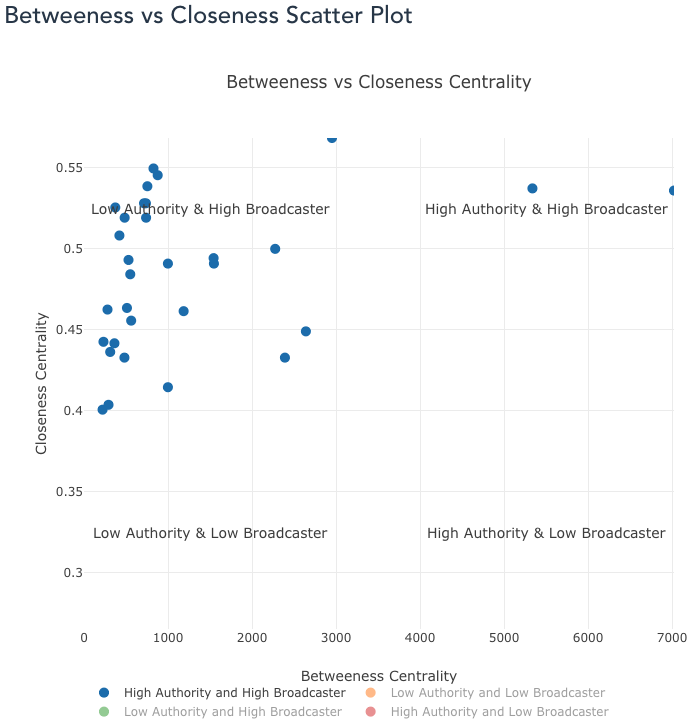
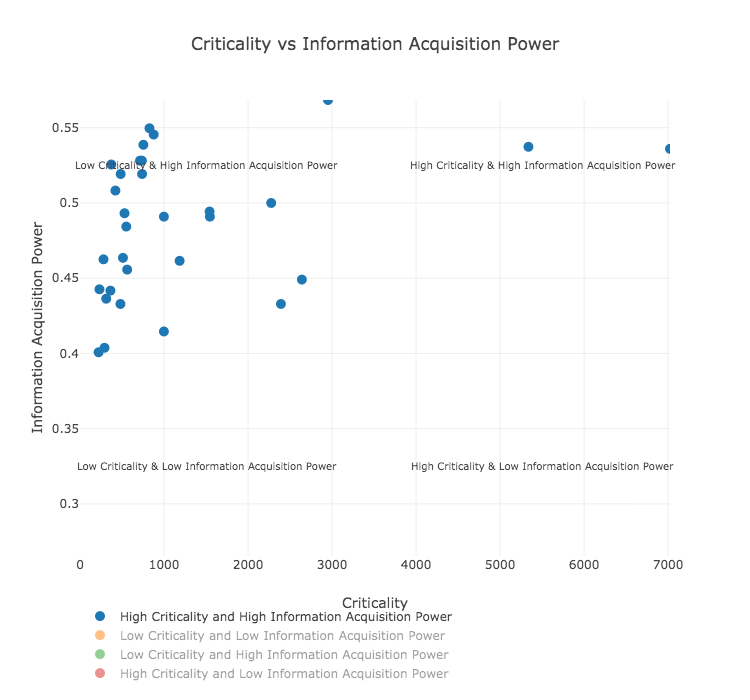
Add the explanation for 'Criticality' and 'Information Acquisition Power'

diff --git a/sample-sigconf.tex b/sample-sigconf.tex
@@ -152,7 +152,7 @@ We examine the distribution based on risk and value of each attributes to better
 Freeman \cite{Freeman78centralityin} developed a set of measures for centrality based on betweenness. Later on, he proposed four core criteria, which developed into degree, closeness, betweenness, and eigenvector centrality  \cite{Freeman79centralityin}. We further leverage the concept of closeness and betweenness centrality to investigate Ecosystem graph.
 
 \textbf{Closeness Centrality}
- It emphasize how close a vertex is to all other vertices in the topology -- the distance of a vertex to all others in the network by focusing on the geodesic measurement from each vertex to all others (Freeman \cite{Freeman79centralityin}). To be more specific, it calculates the shortest path between all nodes and assigns each node a score based on the length of its shortest paths to other nodes. According to Yin et al. \cite{Yin2006}, closeness is an evaluation for ``how long it will take information to spread from a given vertex to others in the network'' (p.1603), which helps find the PII attributes that are best placed to reach others once breached, and thus influence the entire network most efficiently. Also according to Freidkin \cite{Freidkin}, closeness centrality represents the independence in the sense that PII attributes with higher closeness centrality do not need to seek information from other more peripheral actors.
+ It emphasize how close a vertex is to all other vertices in the topology -- the distance of a vertex to all others in the network by focusing on the geodesic measurement from each vertex to all others (Freeman \cite{Freeman79centralityin}). To be more specific, it calculates the shortest path between all nodes and assigns each node a score based on the length of its shortest paths to other nodes. According to Yin et al. \cite{Yin2006}, closeness is an evaluation for ``how long it will take information to spread from a given vertex to others in the network'' (p.1603), which helps find the PII attributes that are best placed to reach others once breached, and thus influence the entire network most efficiently. Also according to Freidkin \cite{Freidkin}, closeness centrality represents the independence in the sense that PII attributes with higher closeness centrality do not need to seek information from other more peripheral PII attributes. In our Ecosystem context, we define it as the `Information Acquisition Power' to present the ability the quickly access connected others.
 This yields the equation as follows. $C_{c}(v_{i})$ stands for the closeness centrality for vertex $i$ and $shortest(v_{i},v_{j})$ is the shortest path between two vertices:
 \begin{equation}
 C_{c}(v_{i}) = \sum_{j = 1}^{n} \frac{1}{shortest(v_{i}, v_{j})}
@@ -190,12 +190,12 @@ C_{B}(u) = \sum_{i \neq j \neq u}^{} \frac{\alpha (i, u, j) }{\alpha (i, j)}
   \label{fig:scatterplot_lblc}
 \end{figure}
 
-Betweenness centrality recognizes nodes that act as `bridges` among whole and assesses the PII attributes that determine the flow around the system. Betweenness serves as a powerful characteristic for communication dynamics -- a high betweenness index could imply a node regulates collaboration in-between, holds authority over,  or infers periphery of diverse clusters.
+Betweenness centrality recognizes nodes that act as `bridges` among whole and assesses the PII attributes that determine the flow around the system. Betweenness serves as a powerful characteristic for communication dynamics -- a high betweenness index could imply a node regulates collaboration in-between, holds authority over,  or infers periphery of diverse clusters. In our Ecosystem context, we define it as the `Criticality' to present the ability to control over network flow.
 
 
 
 
-Following the centrality concept mentioned above, we calculate and introduce the scatter plot of x-axis revealing betweenness and y-axis showing closeness indexes.  This plot could further be divided into four quadrants based on the combination of high and low values on x and y axes. Denoting betweenness for authority (A) and closeness for broadcaster (B), Figure~\ref{fig:scatterplot_hbhc} shows the graph with blue dots representing high A and high B, Figure~\ref{fig:scatterplot_lbhc} with green dots low A and High B, Figure~\ref{fig:scatterplot_hblc} with red dots High A and low B, and lastly Figure~\ref{fig:scatterplot_lblc} with orange dots low A and low B. We can infer from these plots that most of the data points aggregate on the third quadrant, which maintains a low closeness and low betweenness centrality values (Figure~\ref{fig:scatterplot_lblc}). There exist Only few sparse distribution of points with both high betweenness and closeness centrality (Figure~\ref{fig:scatterplot_hbhc}). Such PII attributes hold high authority and act as broadcasters in the network of PII attributes. If evaluated using the Ecosystem model, these PII attributes could be asserted as attributes that will rapidly jeopardize the remaining sub-network if already exposed, and boost the information flow of exposure inside the system.
+Following the centrality concept mentioned above, we calculate and introduce the scatter plot of x-axis revealing betweenness and y-axis showing closeness indexes.  This plot could further be divided into four quadrants based on the combination of high and low values on x and y axes. Denoting betweenness for `Criticality' (C) and closeness for `Information Acquisition Power' (I), Figure~\ref{fig:scatterplot_hbhc} shows the graph with blue dots representing high C and high I, Figure~\ref{fig:scatterplot_lbhc} with green dots low C and High I, Figure~\ref{fig:scatterplot_hblc} with red dots High C and low I, and lastly Figure~\ref{fig:scatterplot_lblc} with orange dots low C and low I. We can infer from these plots that most of the data points aggregate on the third quadrant, which maintains a low closeness and low betweenness centrality values (Figure~\ref{fig:scatterplot_lblc}). There exist Only few sparse distribution of points with both high betweenness and closeness centrality (Figure~\ref{fig:scatterplot_hbhc}). Such PII attributes hold high authority and act as broadcasters in the network of PII attributes. If evaluated using the Ecosystem model, these PII attributes could be asserted as attributes that will rapidly jeopardize the remaining sub-network if already exposed, and boost the information flow of exposure inside the system.
 
 
 Figure~\ref{fig:top10_closeness_betweenness_centrality} displays the top 10 PII in descending order based on the value of closeness and betweenness centrality. The top three attributes with the highest value of closeness, i.e., most efficient and least costly to spread information from and to, are \textit{Customer Database}, \textit{Password}, and \textit{Email Address}. Also, the top three attributes with the highest value of betweenness centrality, i.e., most authoritative for controlling the information flow, are \textit{Email Address}, \textit{Name}, and \textit{Address}. 
